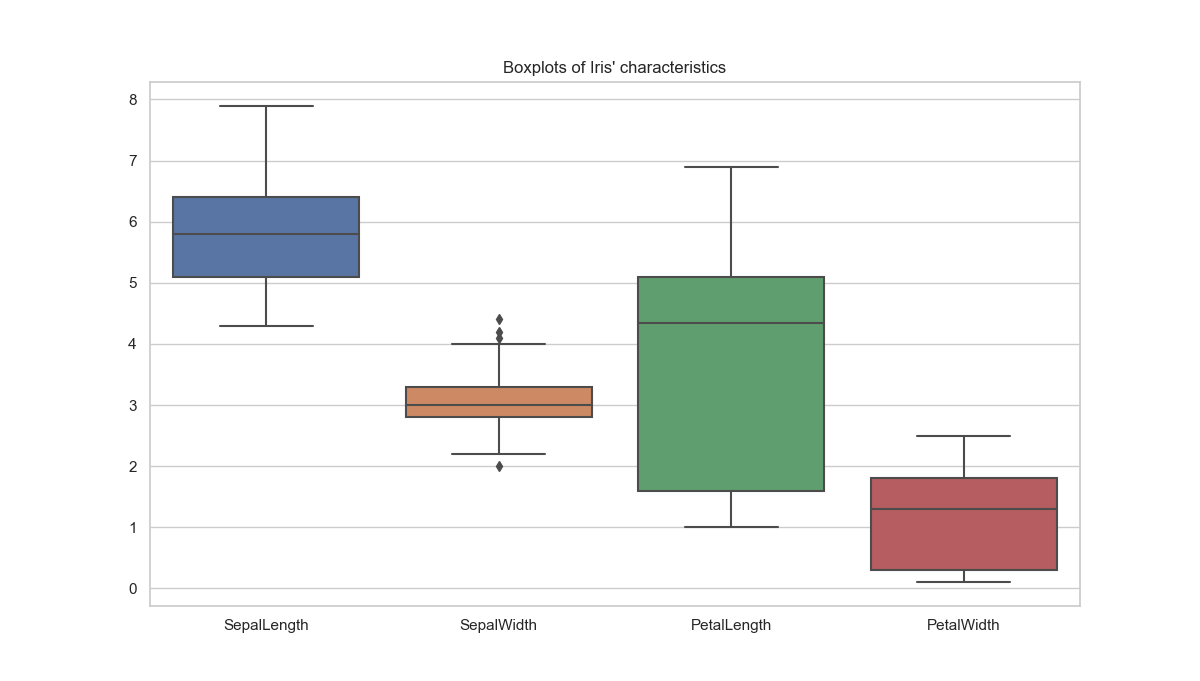
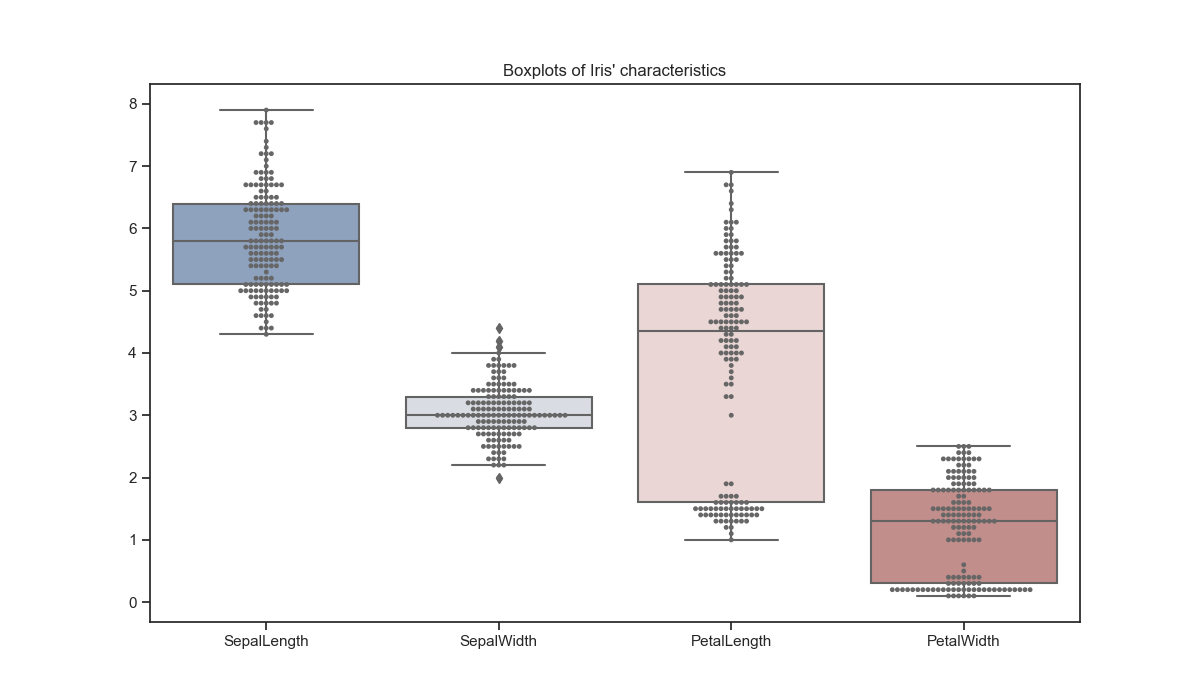
Update 'One Quantitative Variable'

diff --git a/EDA Examining Distributions/One Quantitative Variable/python/seaborn_boxplot_example.py b/EDA Examining Distributions/One Quantitative Variable/python/seaborn_boxplot_example.py
@@ -8,8 +8,13 @@ iris = pd.read_csv('../../../data/iris.csv')
 quantitatives = iris[['SepalLength', 'SepalWidth', 'PetalLength', 'PetalWidth']]
 
 # draw boxplot
-sns.set(style="whitegrid")
+# sns.set(style="whitegrid")
+sns.set(style="ticks")
 fig, ax = plt.subplots(figsize=(12, 7))
-ax = sns.boxplot(data = quantitatives)
+ax = sns.boxplot(data = quantitatives,      # Create boxplot
+                palette="vlag")             # palette: Control the series of color        
+ax = sns.swarmplot(data = quantitatives,    # Add points
+                   color = ".4",            # color: one float number is for the grey level
+                   size = 3.5 )             # size: the size for the marker
 ax.set_title("Boxplots of Iris' characteristics")
 plt.show()

diff --git a/EDA Examining Distributions/One Quantitative Variable/README.md b/EDA Examining Distributions/One Quantitative Variable/README.md
@@ -61,3 +61,5 @@ ax.set_title("Boxplots of Iris' characteristics")
 plt.show()
 ```
 ![Image of Seaborn Boxplot Example](https://github.com/kevinkevin556/SRDV/blob/master/EDA%20Examining%20Distributions/One%20Quantitative%20Variable/image/seaborn_boxplot.png?raw=true)
+- seaborn.boxplot: https://seaborn.pydata.org/generated/seaborn.boxplot.html?highlight=boxplot#seaborn.boxplot
+- 
